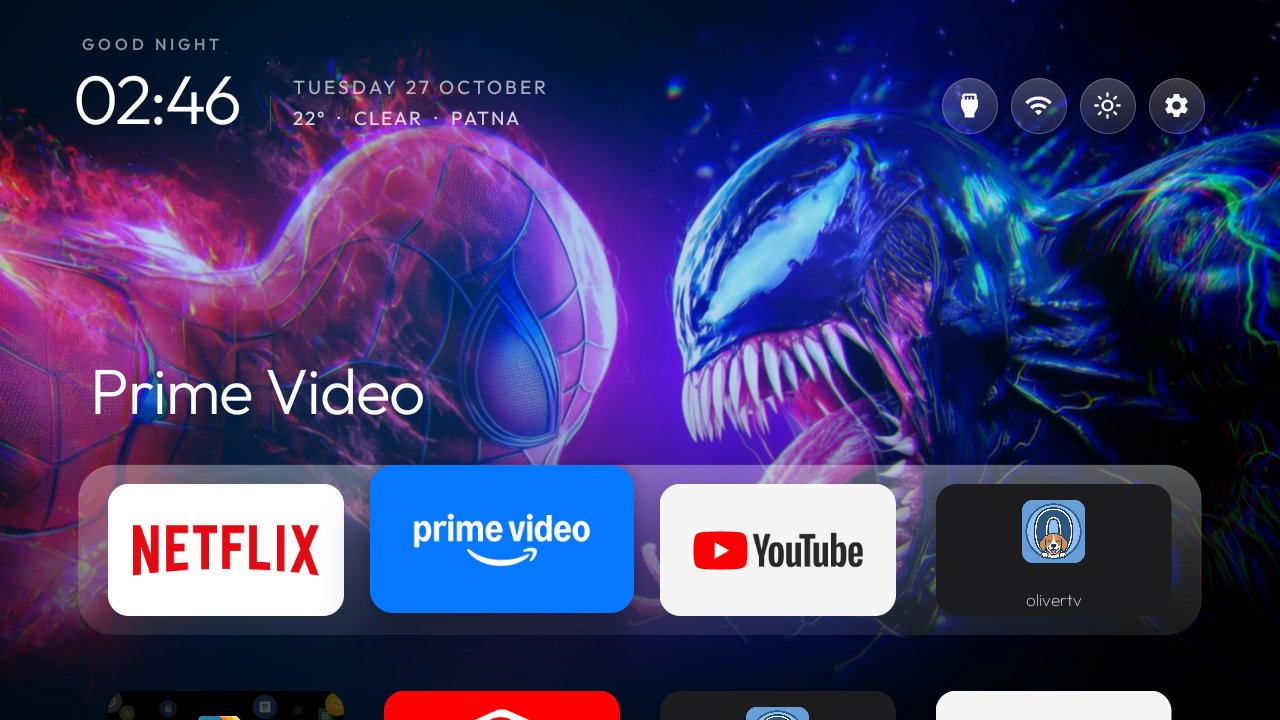
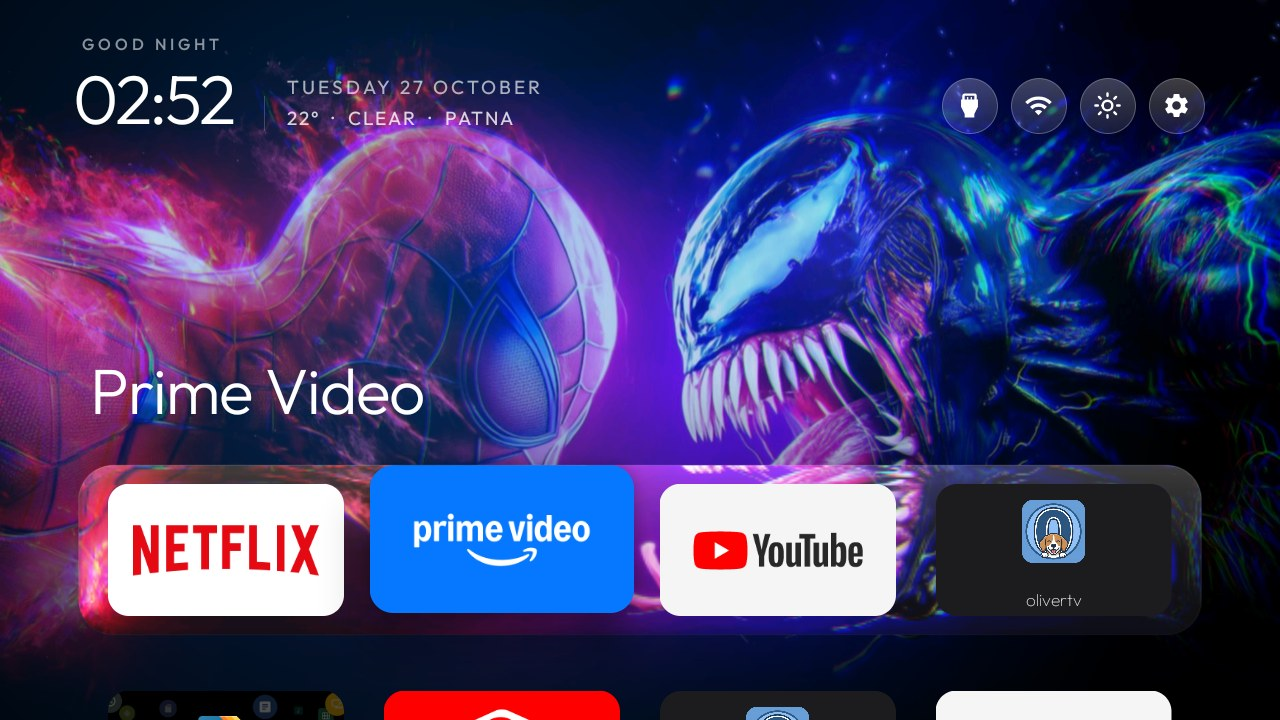
frag: iOS Clear glass dock, pre-rendered lens refraction and dispersion of the wallpaper

diff --git a/launcher/app/src/main/java/com/fragthebox/home/ClearGlass.java b/launcher/app/src/main/java/com/fragthebox/home/ClearGlass.java
@@ -1,0 +1,99 @@
+package com.fragthebox.home;
+
+import android.graphics.Bitmap;
+import android.graphics.Color;
+import android.graphics.RectF;
+
+/**
+ * frag: iOS-style "Clear" glass for the dock, pre-rendered. Live refraction needs Android 13 shaders; this TV runs
+ * Android 9. The wallpaper behind the dock doesn't move, so the lens is computed once per wallpaper and dock size:
+ * inside a rounded-rect lens the picture is seen as through clear glass, and toward the rim it bends, pulling in
+ * the picture from just beyond the edge (the compression ring), with red and blue split a little apart (dispersion).
+ * Rendered at half resolution, which the glass hides.
+ */
+final class ClearGlass {
+
+    private static Bitmap source;      // the shown wallpaper, half size, software
+    private static int sourceW, sourceH; // the size the picture is drawn at (before halving)
+    private static Bitmap cached;
+    private static String cachedKey = "";
+    private static int generation;
+
+    private ClearGlass() {
+    }
+
+    /** The picture now on screen, as drawn (cover-scaled, dim included); null clears it. */
+    static synchronized void setSource(Bitmap halfSize, int drawnW, int drawnH) {
+        source = halfSize;
+        sourceW = drawnW;
+        sourceH = drawnH;
+        generation++;
+    }
+
+    /**
+     * The lens image for a band at {@code band} (window pixels) with corner radius {@code radius}, sized
+     * band/2; null when there is no picture to bend.
+     */
+    static synchronized Bitmap render(RectF band, float radius, int screenW, int screenH, float density) {
+        if (source == null || band.width() < 4 || band.height() < 4) return null;
+        String key = generation + ":" + Math.round(band.left) + "," + Math.round(band.top) + ","
+                + Math.round(band.width()) + "x" + Math.round(band.height()) + ":" + Math.round(radius);
+        if (key.equals(cachedKey) && cached != null) return cached;
+
+        int w = Math.max(2, Math.round(band.width() / 2f)), h = Math.max(2, Math.round(band.height() / 2f));
+        float r = radius / 2f;
+        float edge = 26f * density / 2f;          // width of the bending ring
+        float strength = edge * 1.6f;             // how far the rim reaches beyond the edge
+        // Where the picture sits on screen: centre-cropped from sourceW x sourceH to the screen.
+        float cropX = (sourceW - screenW) / 2f, cropY = (sourceH - screenH) / 2f;
+        float sx = source.getWidth() / (float) sourceW, sy = source.getHeight() / (float) sourceH;
+        int sw = source.getWidth(), sh = source.getHeight();
+        int[] src = new int[sw * sh];
+        source.getPixels(src, 0, sw, 0, 0, sw, sh);
+        int[] out = new int[w * h];
+        float cx = w / 2f, cy = h / 2f, hx = w / 2f - r, hy = h / 2f - r;
+        for (int y = 0; y < h; y++) {
+            for (int x = 0; x < w; x++) {
+                float px = x + 0.5f - cx, py = y + 0.5f - cy;
+                float d = sdf(px, py, hx, hy, r);
+                float depth = -d;
+                // Outward normal from the SDF's gradient.
+                float nx = sdf(px + 0.5f, py, hx, hy, r) - sdf(px - 0.5f, py, hx, hy, r);
+                float ny = sdf(px, py + 0.5f, hx, hy, r) - sdf(px, py - 0.5f, hx, hy, r);
+                float nl = (float) Math.sqrt(nx * nx + ny * ny);
+                if (nl > 1e-4f) {
+                    nx /= nl;
+                    ny /= nl;
+                }
+                float t = Math.max(0f, Math.min(1f, depth / edge));
+                float bend = (1f - t) * (1f - t);
+                // Screen position of this pixel, then the displaced sample for each colour channel.
+                float bx = band.left + (x + 0.5f) * 2f, by = band.top + (y + 0.5f) * 2f;
+                float off = bend * strength * 2f;
+                int rC = Color.red(sample(src, sw, sh, (bx + nx * off * 1.08f + cropX) * sx, (by + ny * off * 1.08f + cropY) * sy));
+                int gC = Color.green(sample(src, sw, sh, (bx + nx * off + cropX) * sx, (by + ny * off + cropY) * sy));
+                int bC = Color.blue(sample(src, sw, sh, (bx + nx * off * 0.92f + cropX) * sx, (by + ny * off * 0.92f + cropY) * sy));
+                // Clear glass lifts the picture a touch and brightens the ring, as a curved surface catches light.
+                float lift = 1.04f + 0.10f * bend;
+                out[y * w + x] = Color.rgb(Math.min(255, Math.round(rC * lift + 6)),
+                        Math.min(255, Math.round(gC * lift + 6)), Math.min(255, Math.round(bC * lift + 8)));
+            }
+        }
+        if (cached != null) cached.recycle();
+        cached = Bitmap.createBitmap(out, w, h, Bitmap.Config.ARGB_8888);
+        cachedKey = key;
+        return cached;
+    }
+
+    /** Signed distance to a rounded rectangle centred at 0 (negative inside). */
+    private static float sdf(float px, float py, float hx, float hy, float r) {
+        float qx = Math.abs(px) - hx, qy = Math.abs(py) - hy;
+        float ox = Math.max(qx, 0f), oy = Math.max(qy, 0f);
+        return (float) Math.sqrt(ox * ox + oy * oy) + Math.min(Math.max(qx, qy), 0f) - r;
+    }
+
+    private static int sample(int[] src, int w, int h, float x, float y) {
+        int ix = Math.max(0, Math.min(w - 1, Math.round(x))), iy = Math.max(0, Math.min(h - 1, Math.round(y)));
+        return src[iy * w + ix];
+    }
+}

diff --git a/launcher/app/src/main/java/com/fragthebox/home/DockDecoration.java b/launcher/app/src/main/java/com/fragthebox/home/DockDecoration.java
@@ -20,6 +20,11 @@ public class DockDecoration extends RecyclerView.ItemDecoration {
     private final Paint edge = new Paint(Paint.ANTI_ALIAS_FLAG);
     private final Paint sheen = new Paint(Paint.ANTI_ALIAS_FLAG);
     private final RectF rect = new RectF();
+    /** frag Clear glass: the pre-rendered lens image, drawn through this paint. */
+    private final Paint lens = new Paint(Paint.ANTI_ALIAS_FLAG | Paint.FILTER_BITMAP_FLAG);
+    private final android.graphics.Matrix lensMatrix = new android.graphics.Matrix();
+    private final int[] loc = new int[2];
+    private android.graphics.Bitmap lensBitmap;
 
     /** Extra band below the tiles for their names (always_show_names), in px. */
     private final float namesRoom;
@@ -152,7 +157,33 @@ public class DockDecoration extends RecyclerView.ItemDecoration {
             shaderTop = rect.top;
             shaderBottom = rect.bottom;
         }
-        c.drawRoundRect(rect, radius, radius, band);
+        android.graphics.Bitmap clear = null;
+        if (lightGlass) {
+            // iOS Clear glass: the picture behind the band, bent at the rim (ClearGlass, rendered once).
+            parent.getLocationInWindow(loc);
+            RectF onScreen = new RectF(rect);
+            onScreen.offset(loc[0], loc[1]);
+            android.util.DisplayMetrics dm = parent.getResources().getDisplayMetrics();
+            clear = ClearGlass.render(onScreen, radius, parent.getRootView().getWidth() > 0 ? parent.getRootView().getWidth() : dm.widthPixels,
+                    parent.getRootView().getHeight() > 0 ? parent.getRootView().getHeight() : dm.heightPixels, density);
+        }
+        if (clear != null) {
+            if (clear != lensBitmap) {
+                lensBitmap = clear;
+                lens.setShader(new android.graphics.BitmapShader(clear, Shader.TileMode.CLAMP, Shader.TileMode.CLAMP));
+            }
+            lensMatrix.setScale(rect.width() / clear.getWidth(), rect.height() / clear.getHeight());
+            lensMatrix.postTranslate(rect.left, rect.top);
+            lens.getShader().setLocalMatrix(lensMatrix);
+            c.drawRoundRect(rect, radius, radius, lens);
+            // A breath of white so the glass reads as a surface, far lighter than the frosted pane.
+            int keep = band.getAlpha();
+            band.setAlpha(Math.round(keep * 0.35f));
+            c.drawRoundRect(rect, radius, radius, band);
+            band.setAlpha(keep);
+        } else {
+            c.drawRoundRect(rect, radius, radius, band);
+        }
         if (lightGlass) {
             c.save();
             c.clipRect(rect.left, rect.top, rect.right, rect.top + rect.height() * 0.5f);

diff --git a/launcher/app/src/main/java/com/fragthebox/home/WallpaperPlayer.java b/launcher/app/src/main/java/com/fragthebox/home/WallpaperPlayer.java
@@ -48,6 +48,8 @@ final class WallpaperPlayer {
     private final int dimColor;
     /** The picture on screen, released once the next one has been drawn. */
     private Bitmap current;
+    /** frag Clear glass: a half-size software copy of each decoded picture, published when it is shown. */
+    private final java.util.Map<Bitmap, Bitmap> lensSources = java.util.Collections.synchronizedMap(new java.util.WeakHashMap<>());
     private boolean active;
     private boolean closed;
     private boolean loading;
@@ -266,6 +268,13 @@ final class WallpaperPlayer {
         // The wallpaper covers the whole root; avoid drawing the fallback colour under it.
         root.setBackground(null);
         image.setImageBitmap(bitmap);
+        Bitmap lens = lensSources.remove(bitmap);
+        if (lens != null) {
+            ClearGlass.setSource(lens, bitmap.getWidth(), bitmap.getHeight());
+            root.invalidate();
+            View grid = root.findViewById(R.id.grid);
+            if (grid != null) grid.invalidate();
+        }
         if (old != null && old != bitmap) image.postDelayed(old::recycle, 500);
     }
 
@@ -291,11 +300,17 @@ final class WallpaperPlayer {
             Bitmap decoded = BitmapFactory.decodeFile(file.getPath(), options);
             if (decoded == null) return null;
             if (dimColor != 0) new Canvas(decoded).drawColor(dimColor);
+            Bitmap half = Bitmap.createScaledBitmap(decoded, Math.max(1, decoded.getWidth() / 2),
+                    Math.max(1, decoded.getHeight() / 2), true);
             // One copy in GPU memory instead of a software bitmap plus its texture; the decode stays off the UI
             // thread for rotations, and Home's return no longer uploads 4-8 MB to the GPU.
             Bitmap gpu = decoded.copy(Bitmap.Config.HARDWARE, false);
-            if (gpu == null) return decoded;
+            if (gpu == null) {
+                lensSources.put(decoded, half);
+                return decoded;
+            }
             decoded.recycle();
+            lensSources.put(gpu, half);
             return gpu;
         } catch (Exception | OutOfMemoryError failure) {
             return null;

diff --git a/README.md b/README.md
@@ -28,7 +28,7 @@ Taken on the TV itself (TCL UnionTV, Android TV 9), one per wallpaper in the the
 | Hold OK on a tile to move it or take it off Home; App library for the rest | `tile_menu`, `app_library` |
 | Spider-Man wallpaper by default; the others in Launcher settings → Wallpaper | `wallpaper.jpg` + `wallpapers/` |
 | OLED focus: no rim, the focused tile lifts on a deep shadow | `glass_style: lift` (frag addition), `focus_overshoot: false` |
-| Apple-style glass dock and top buttons | `dock_glass` (frag: brighter pane, top sheen, light-catching rim) |
+| iOS "Clear" glass dock: the picture seen through clear glass, bending at the rim with a colour fringe | `dock_glass` (frag: `ClearGlass`, pre-rendered once per wallpaper because Android 9 has no live shaders) |
 | Weather under the date from the Wi-Fi's location ("22° · Clear · Patna") | frag addition (ipwho.is + Open-Meteo, cached 30 min) |
 | Dark fade up from the bottom so the apps sit on shadow | frag addition (`bottom_fade`) |
 | Brightness button at the top: Auto by time of day, 100–20 %, TV picture settings | frag addition (a dim layer over every app; the TV's real backlight stays in its Picture menu) |
